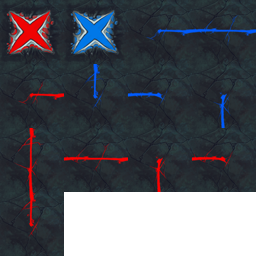
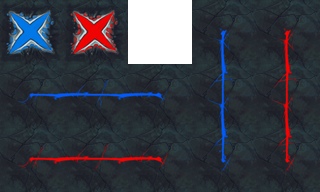
goal spawns tileset

diff --git a/gdx-minigames/src/main/resources/data/maps/Goal_Spawn.tsx b/gdx-minigames/src/main/resources/data/maps/Goal_Spawn.tsx
@@ -1,4 +1,16 @@
 <?xml version="1.0" encoding="UTF-8"?>
-<tileset name="Goal_Spawn" tilewidth="64" tileheight="64" tilecount="16">
- <image source="Goal_Spawn.png" width="256" height="256"/>
+<tileset name="Goal_Spawn" tilewidth="64" tileheight="64">
+ <image source="Goal_Spawn.png" width="320" height="192"/>
+ <tile id="0">
+  <properties>
+   <property name="Entitytype" value="PlayerSpawn"/>
+   <property name="Team" value="0"/>
+  </properties>
+ </tile>
+ <tile id="1">
+  <properties>
+   <property name="Entitytype" value="PlayerSpawn"/>
+   <property name="Team" value="1"/>
+  </properties>
+ </tile>
 </tileset>
